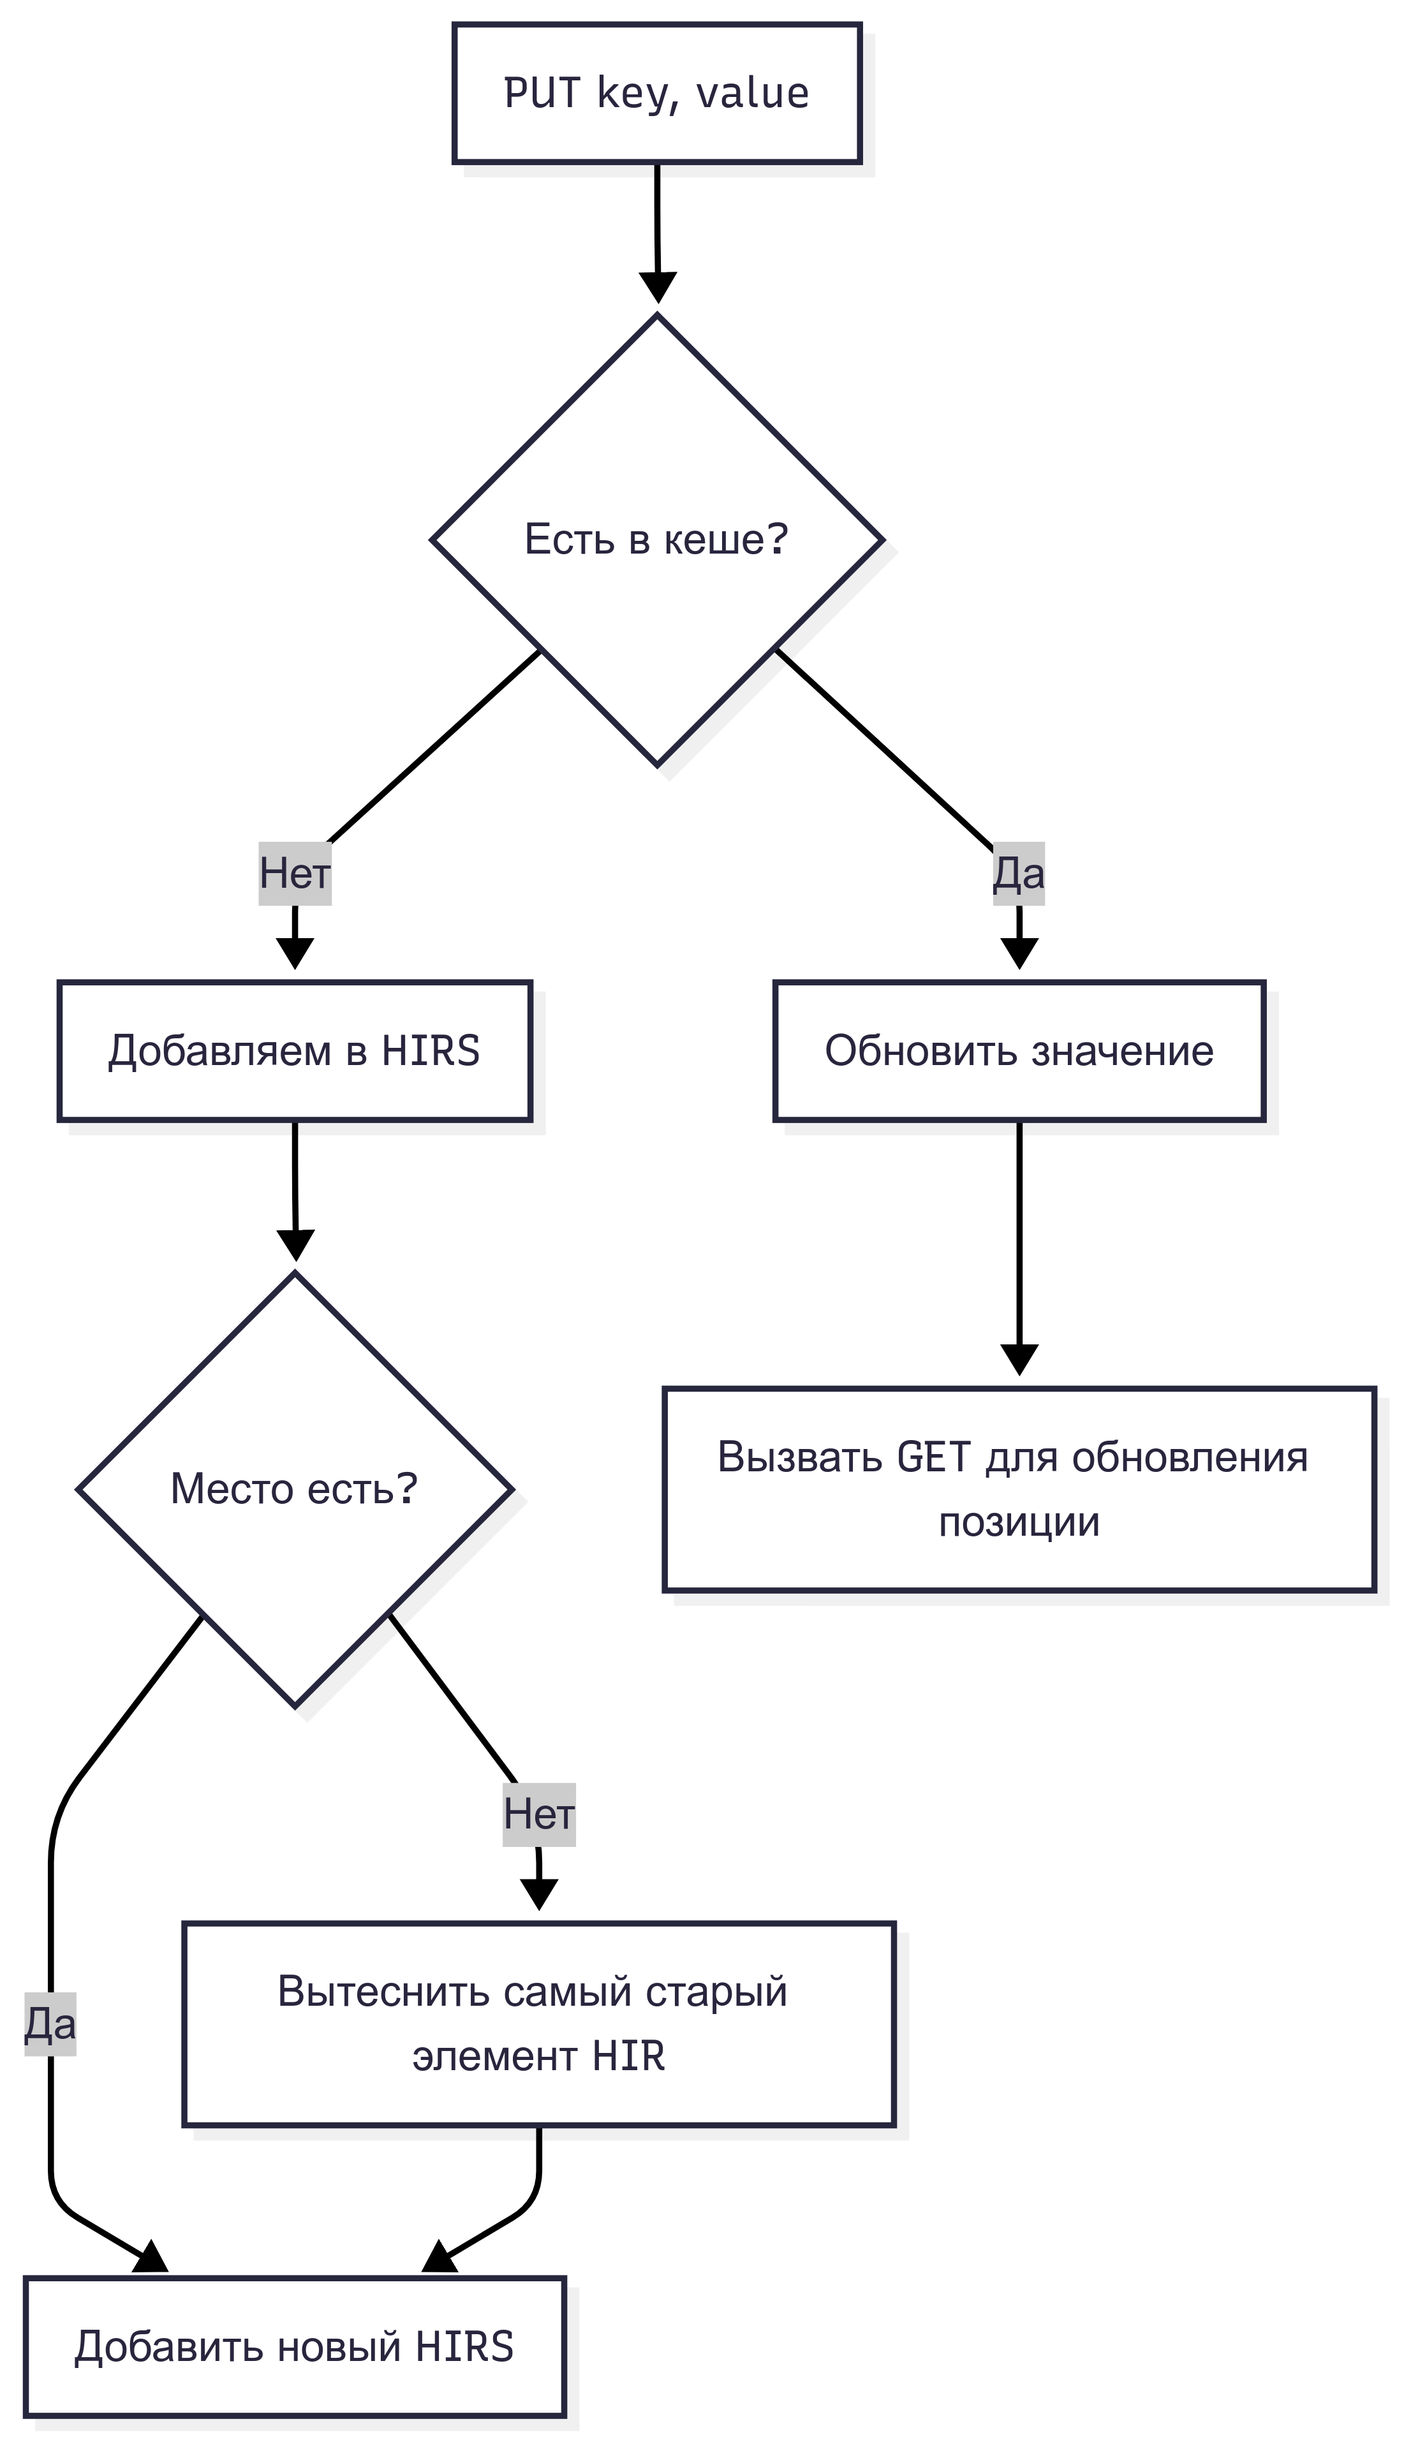
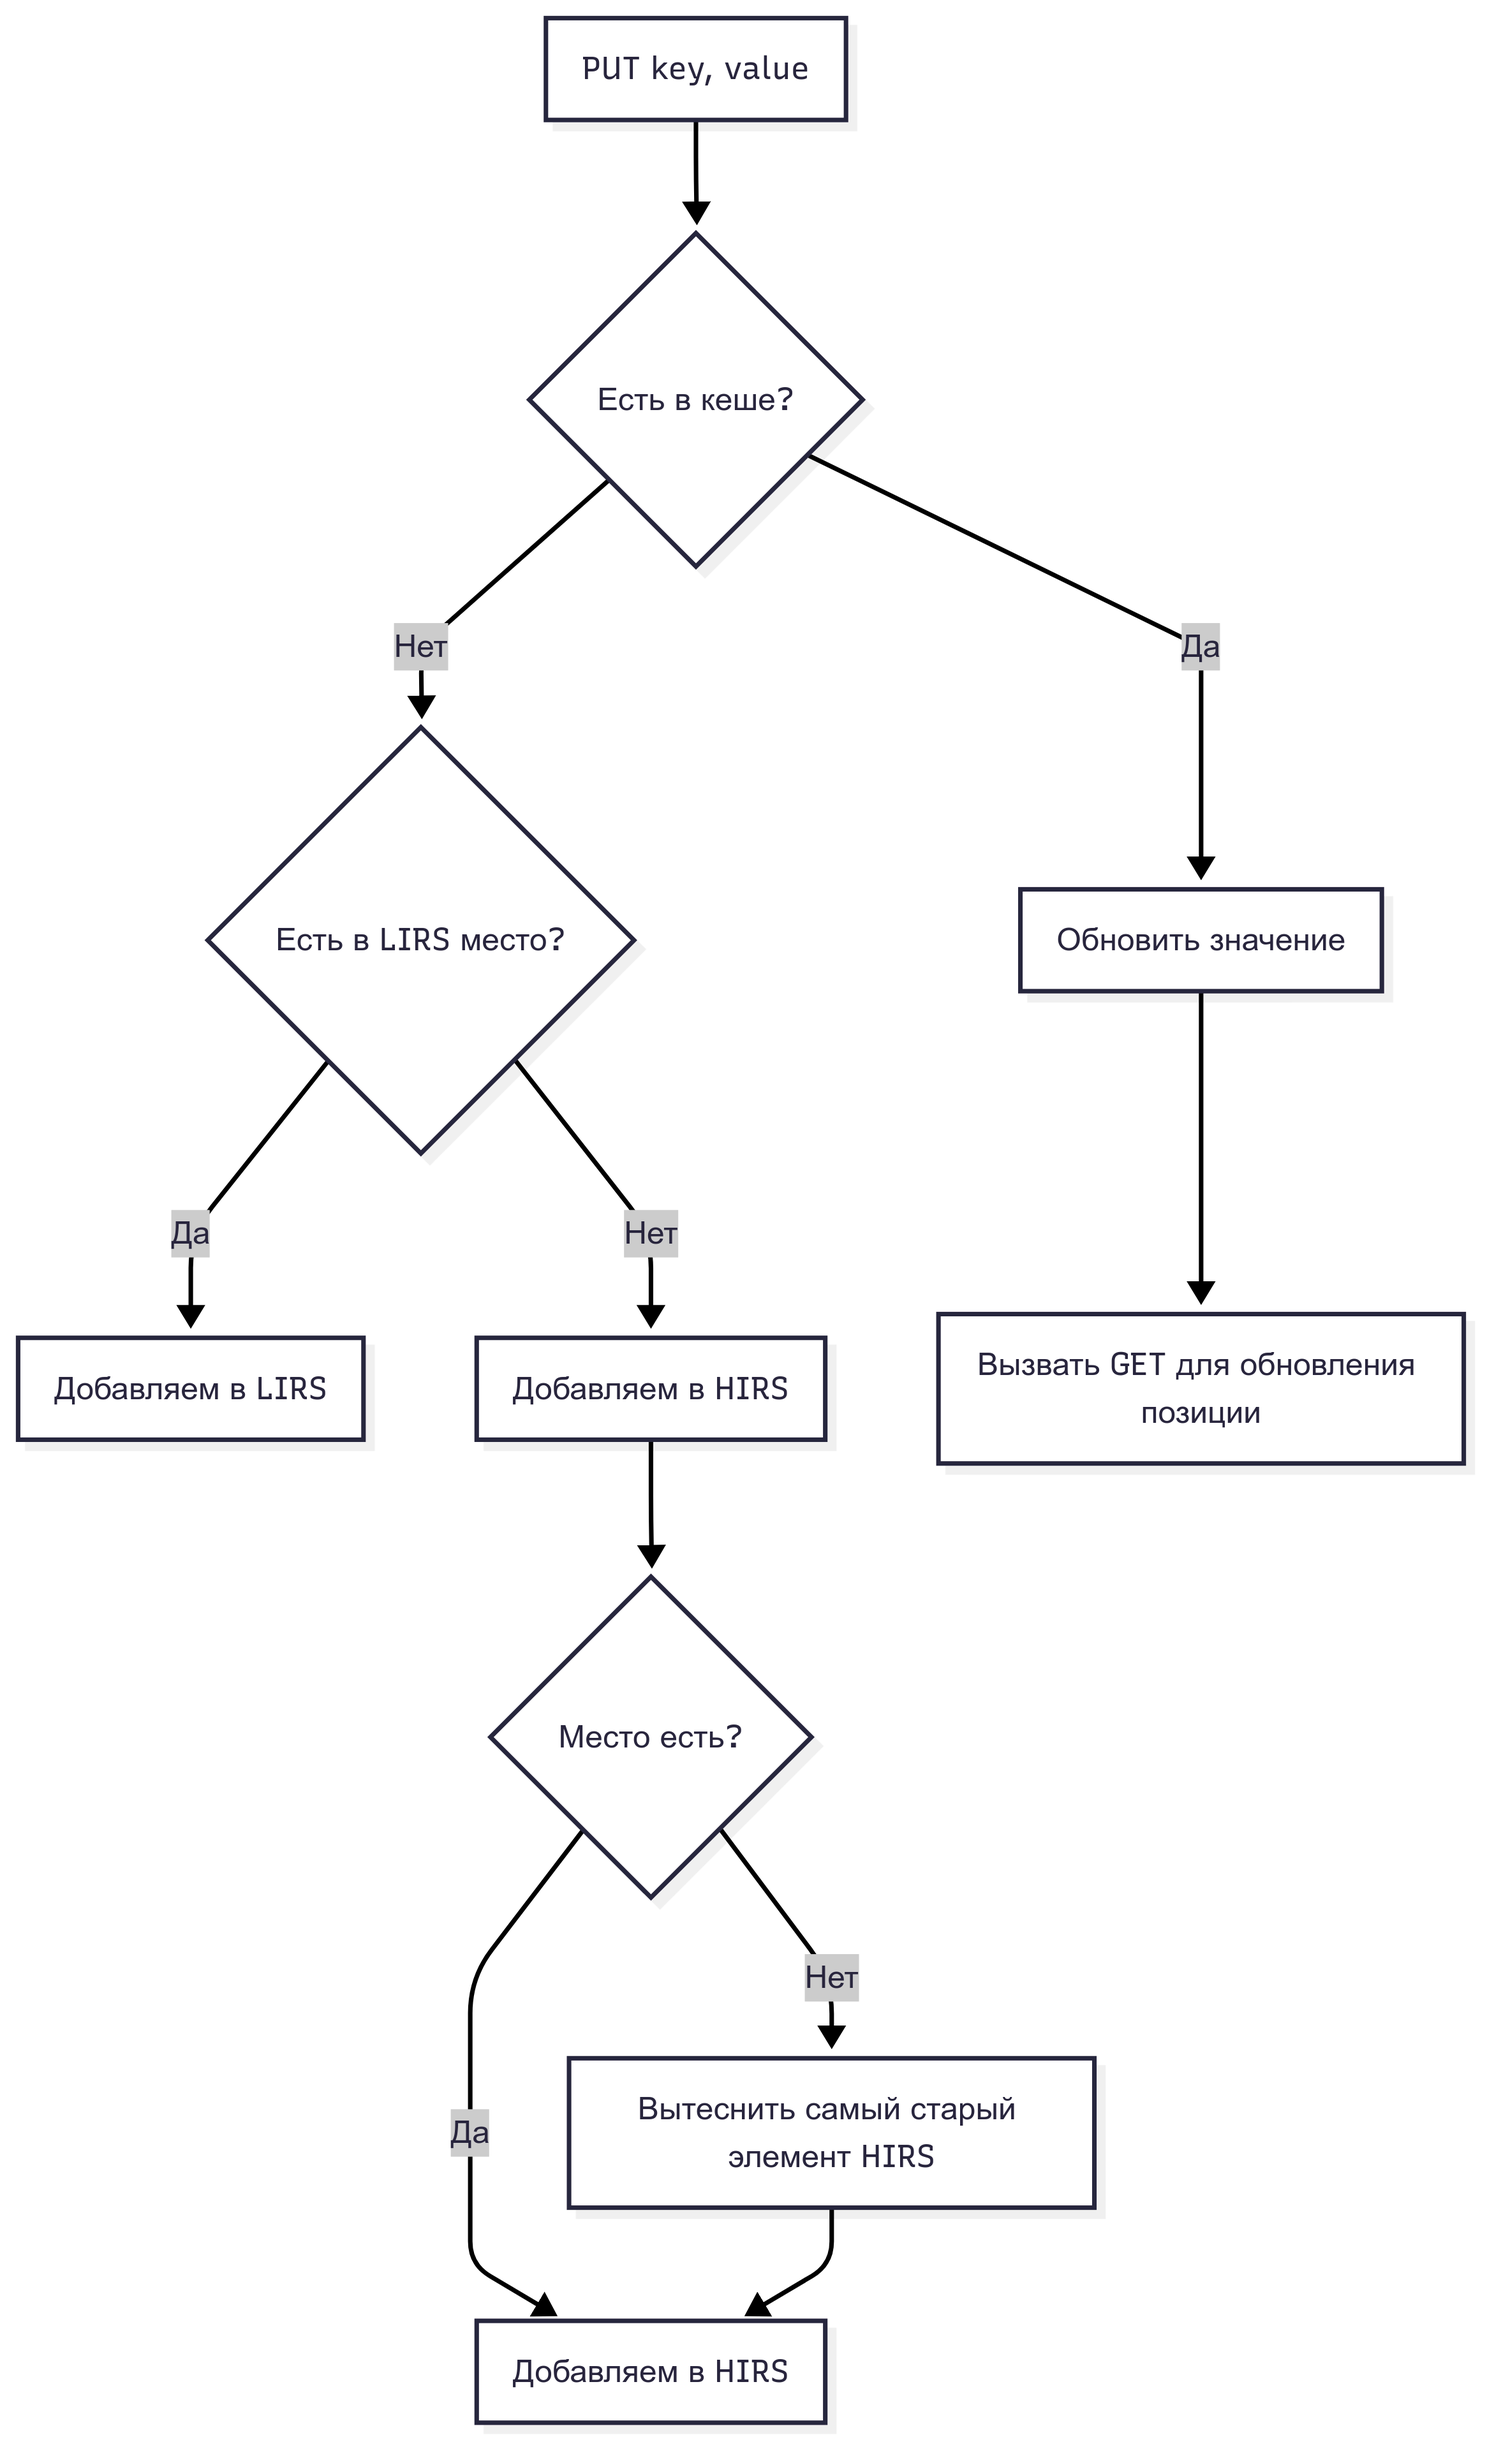
fix lirs put problem

diff --git a/inc/lirs.h b/inc/lirs.h
@@ -11,7 +11,8 @@ const double LIR_PERCENTAGE = 0.7;
 enum class pageKey_t
 {
     LIR,
-    HIR
+    HIR,
+    NOTYPE
 };
 
 template <typename valType>
@@ -77,20 +78,31 @@ void LIRSCache<valType>::put(int key, const valType& value)
         return;
     }
 
-    if (hirs_.size() >= hirss_)
+    pageKey_t pageType = pageKey_t::NOTYPE;
+
+    if (lirs_.size() < lirss_)
     {
-        size_t evicted = hirs_.back();
-        hirs_.pop_back();
-        cache_.erase(evicted);
+        lirs_.push_front(key);
+        pageType = pageKey_t::LIR;
+    }
+    else
+    {
+        if (hirs_.size() >= hirss_)
+        {
+            size_t evicted = hirs_.back();
+            hirs_.pop_back();
+            cache_.erase(evicted);
+        }
+        hirs_.push_front(key);
+        pageType = pageKey_t::HIR;
     }
 
     // Add new element as HIR
-    cache_[key] = {value, pageKey_t::HIR};
-    hirs_.push_front(key);
+    cache_[key] = {value, pageType};
 }
 
-template <typename T>
-std::ostream& operator<<(std::ostream& os, const LIRSCache<T>& cache)
+template <typename valType>
+std::ostream& operator<<(std::ostream& os, const LIRSCache<valType>& cache)
 {
     os << "LIRS Cache State     Capacity: " << cache.c_ << std::endl;
     os << "                     LIRS: [ ";

diff --git a/src/main.cpp b/src/main.cpp
@@ -56,6 +56,7 @@ static void run()
             misses++;
             cache.put(key, key);
         }
+        std::cout << cache << std::endl;
     }
 
     std::cout << "Misses: " << misses << std::endl;
